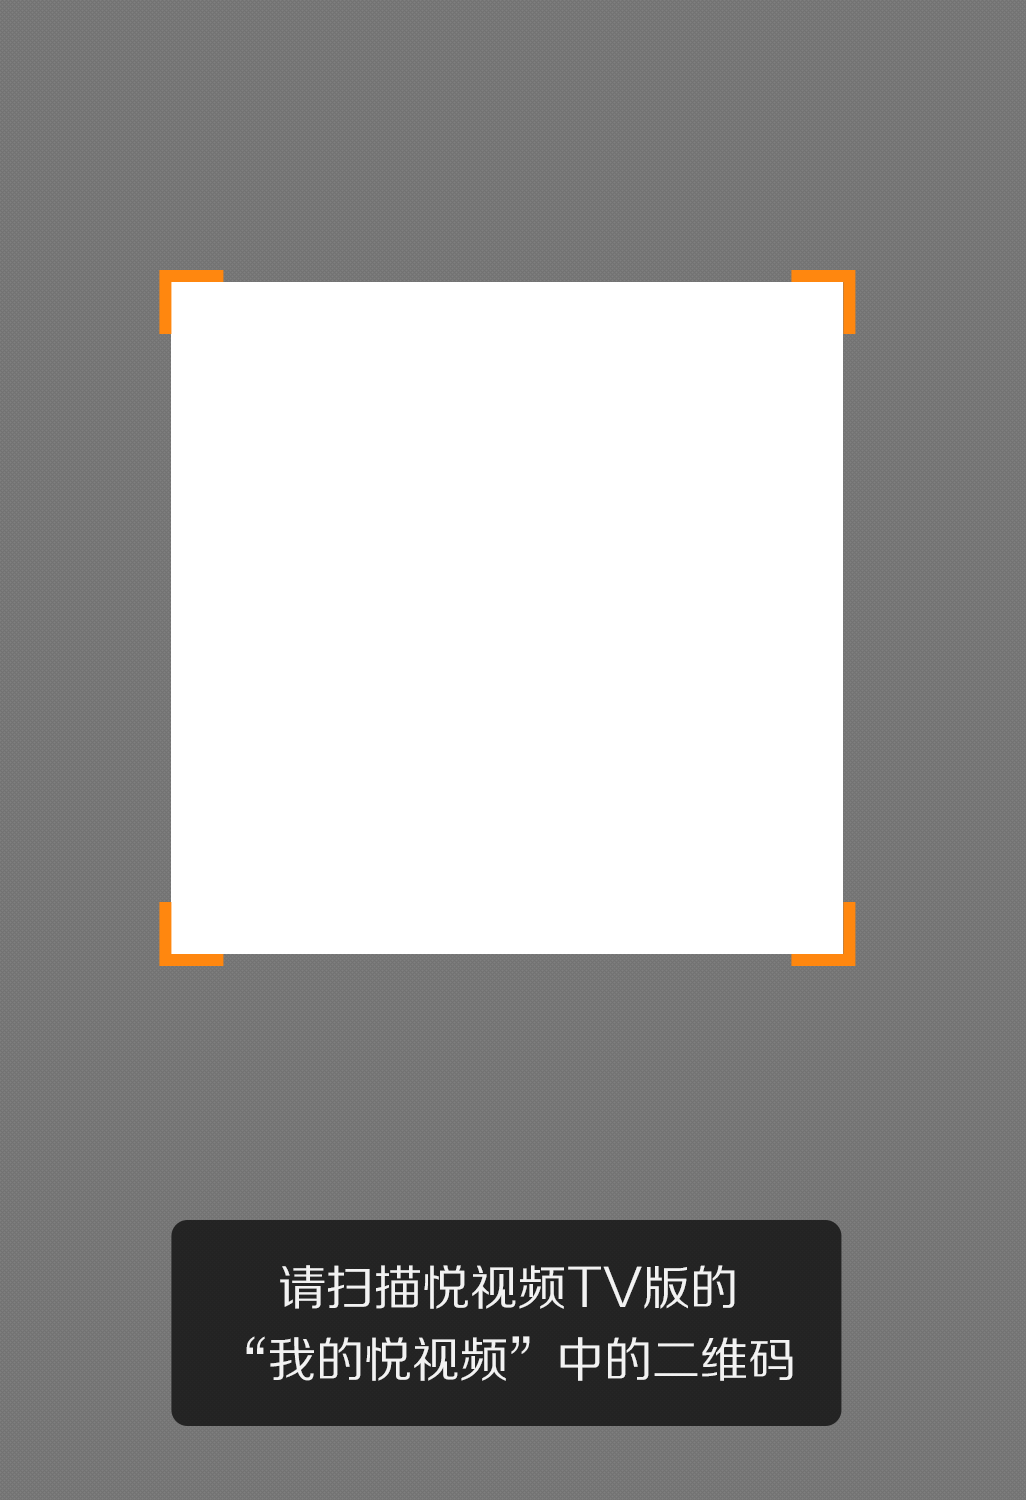
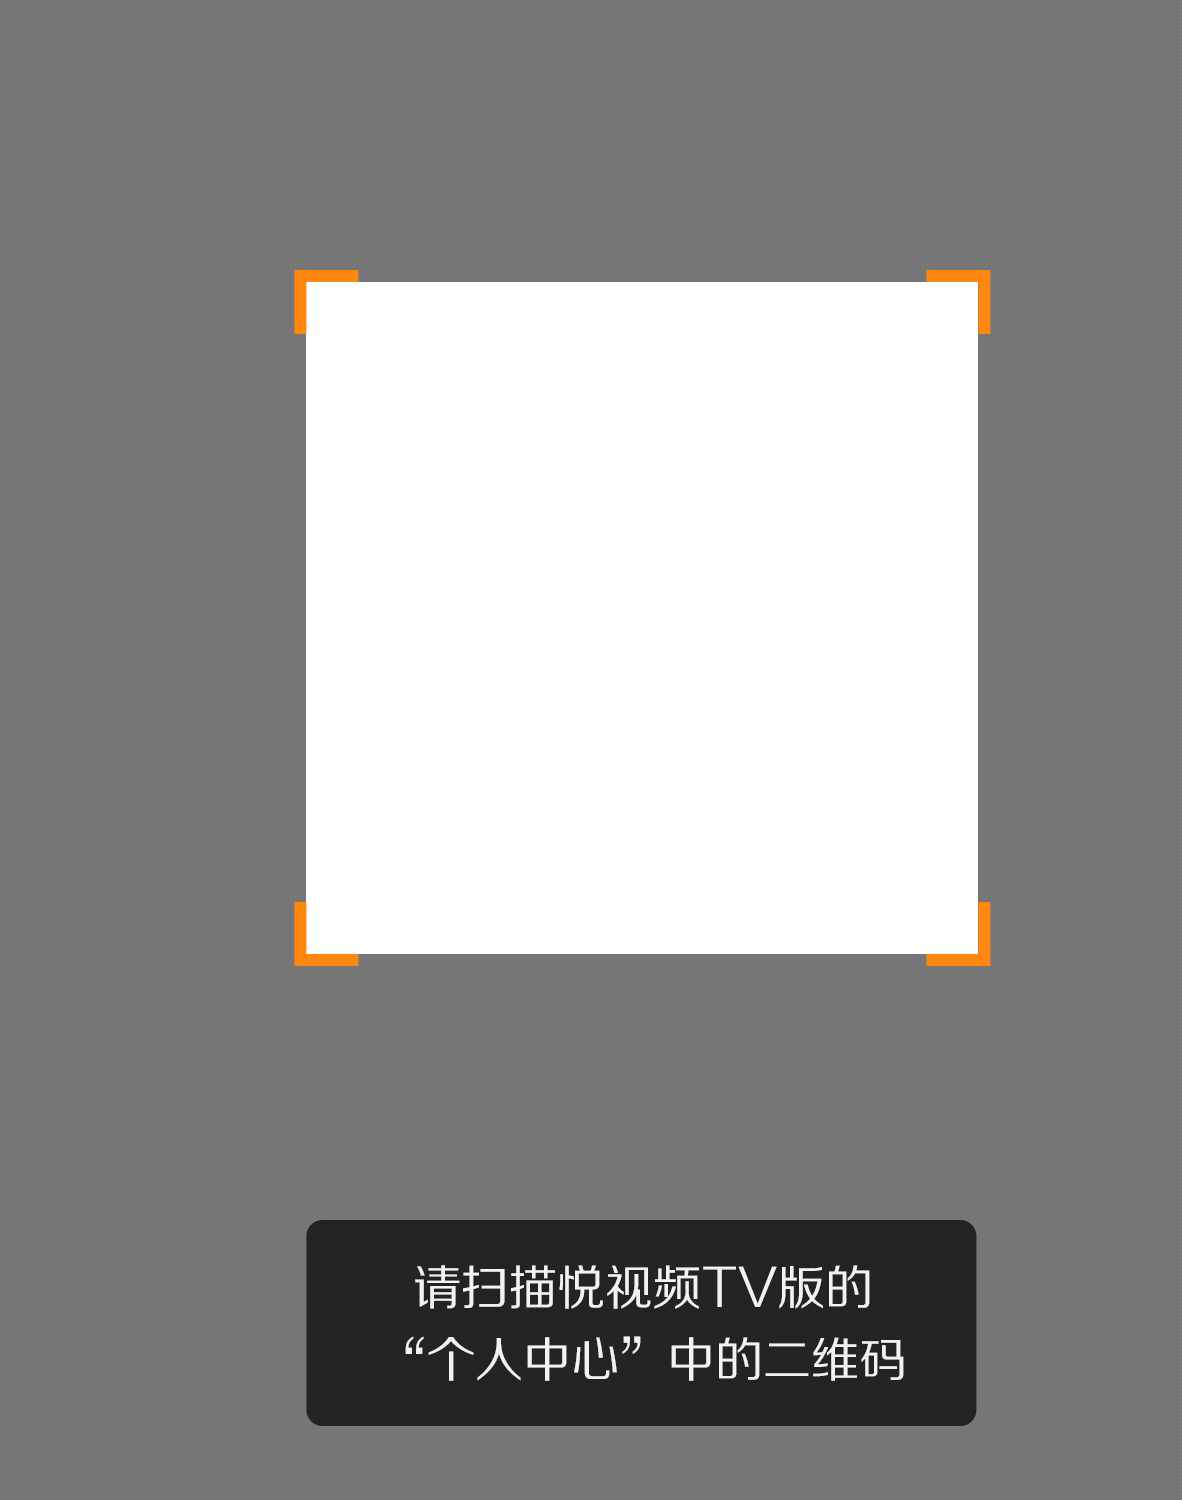
bug fix

diff --git a/yueshipin_ipad/yueshipin_ipad/src/scan/ScanViewController.m b/yueshipin_ipad/yueshipin_ipad/src/scan/ScanViewController.m
@@ -51,8 +51,8 @@
                                                  name:UIApplicationDidBecomeActiveNotification
                                                object:nil];
 
-    scanSymbolView = [[UIImageView alloc] initWithImage:[UIImage imageNamed:@"ipad_scan_symbol.png"]];
-    scanSymbolView.frame = CGRectMake(88, 80, 336, 35);
+    scanSymbolView = [[UIImageView alloc] initWithImage:[UIImage imageNamed:@"scaning.png"]];
+    scanSymbolView.frame = CGRectMake(135, 80, 290, 35);
     [self.view addSubview:scanSymbolView];
 
     [self fireANewTimer];
@@ -99,13 +99,13 @@
 
 - (void)scanAnimation
 {
-    scanSymbolView.frame = CGRectMake(88, 80, 336, 35);
+    scanSymbolView.frame = CGRectMake(135, 80, 290, 35);
     [UIView beginAnimations:nil context:NULL];
     [UIView setAnimationDuration:SCAN_TIMER_INTERVAL];
     [UIView setAnimationDelegate:self];
     [UIView setAnimationRepeatCount:MAXFLOAT];
     //[UIView setAnimationDidStopSelector:@selector(fireANewTimer)];
-    scanSymbolView.frame = CGRectMake(88,250 + 148, 336, 35);
+    scanSymbolView.frame = CGRectMake(135,250 + 148, 290, 35);
     [UIView commitAnimations];
 }
 
